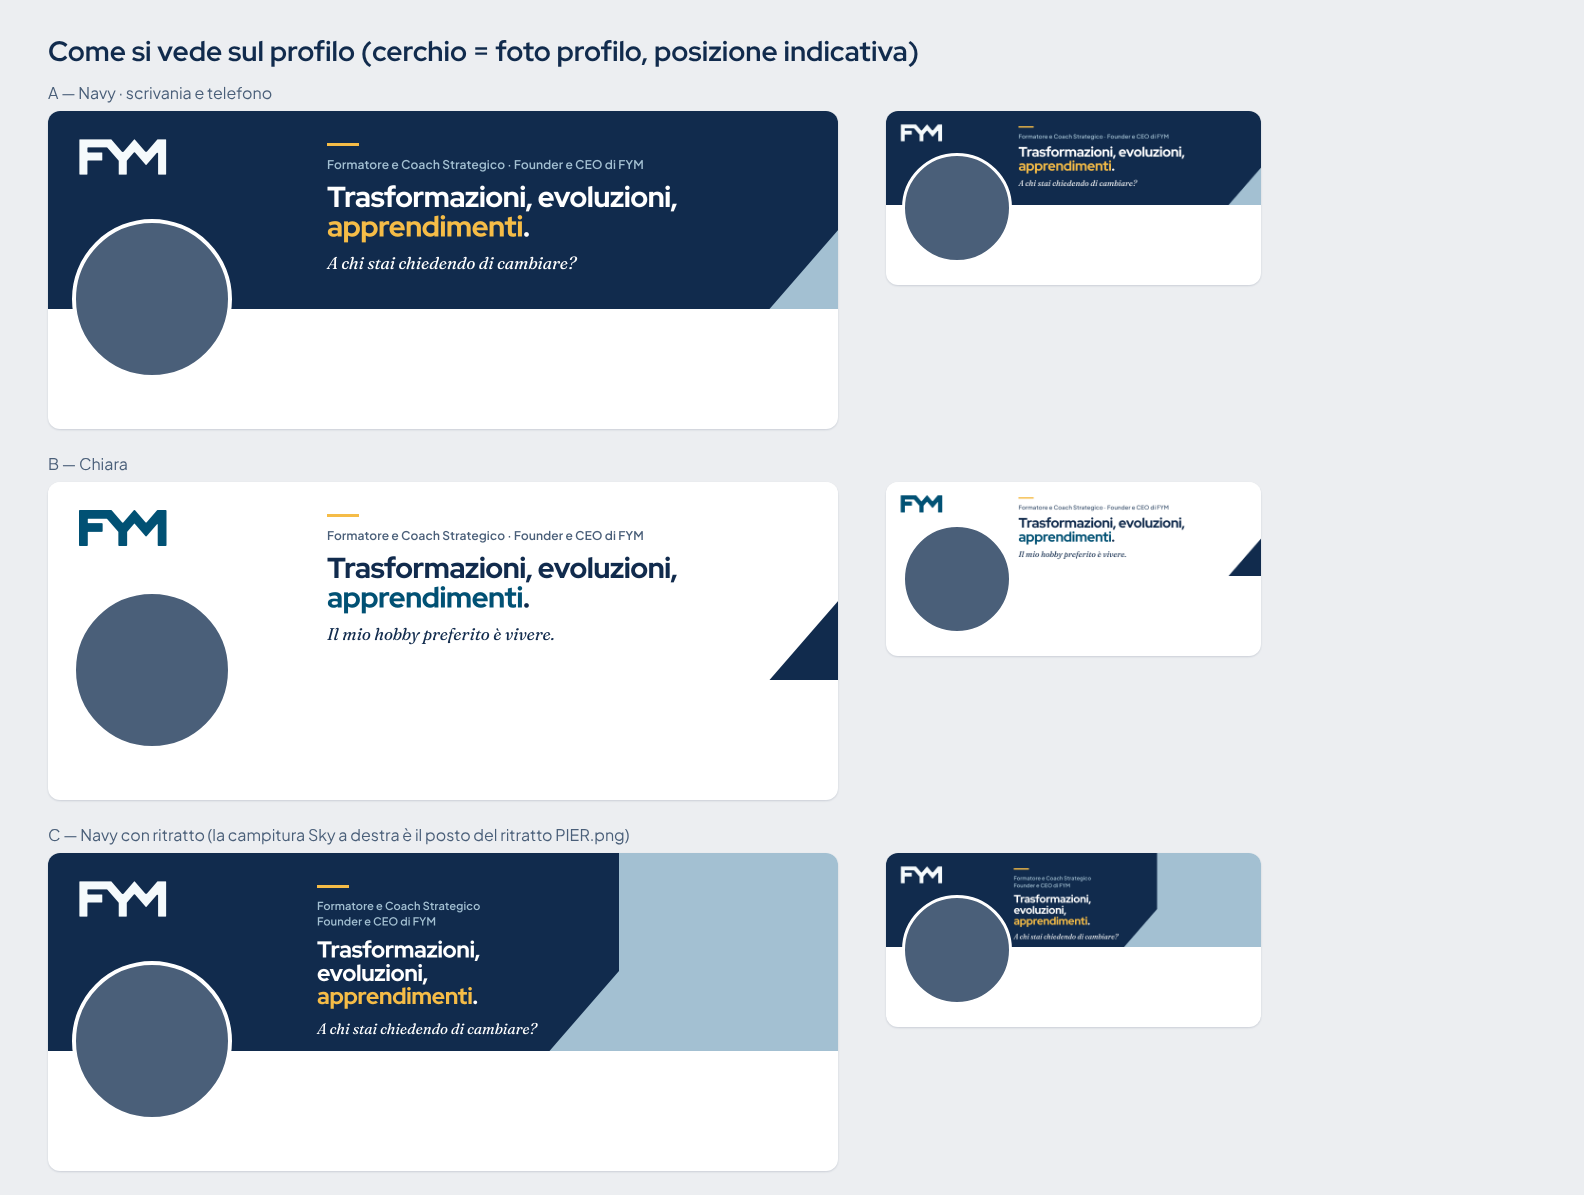
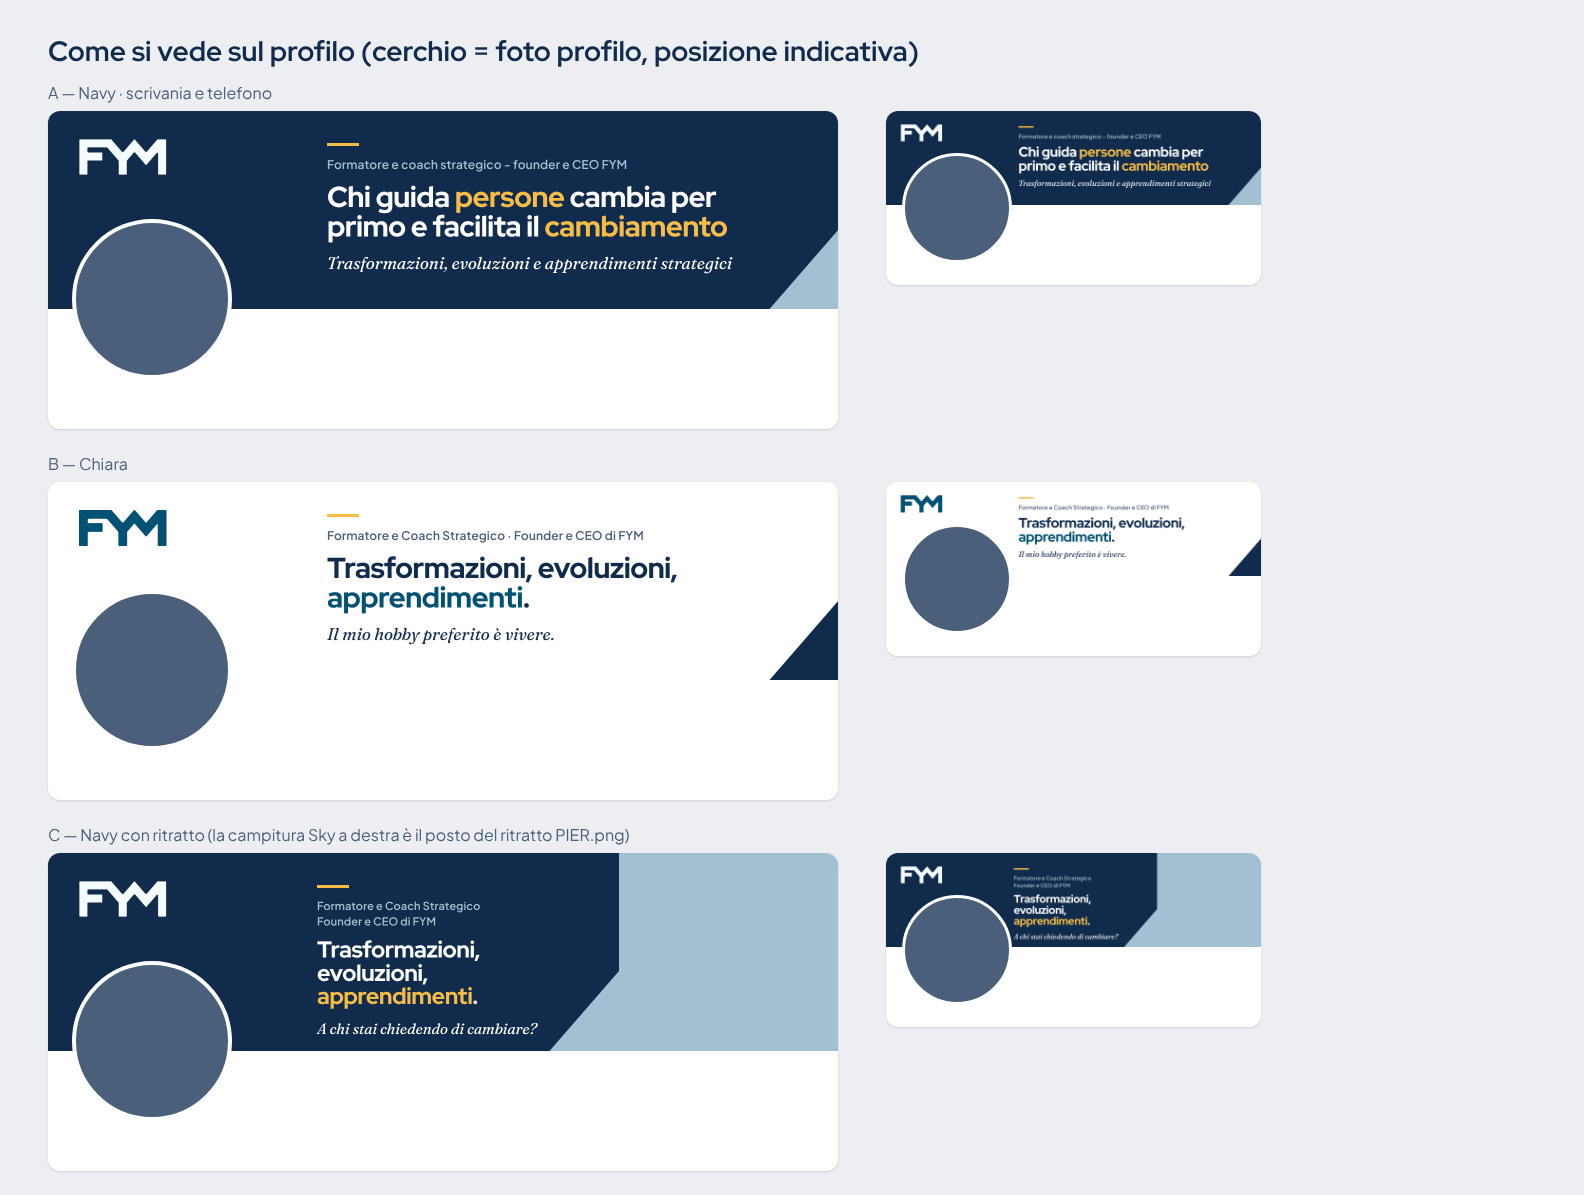
Copertina A: testi definitivi di Piercarlo
Claude-Session: https://claude.ai/code/session_01ExfnFPVvHZTvYh4X8r1qja

Changed region(s): [[0.1856, 0.1238, 0.464, 0.2477], [0.6187, 0.1238, 0.7734, 0.1548]]

diff --git a/linkedin/copertina-A-navy.html b/linkedin/copertina-A-navy.html
@@ -17,9 +17,9 @@ h1 em{font-style:normal;color:#f5bc47}
 <img class="logo" src="logo-soft.svg" alt="FYM">
 <div class="testo">
 <div class="tratt"></div>
-<p class="etichetta">Formatore e Coach Strategico · Founder e CEO di FYM</p>
-<h1>Trasformazioni, evoluzioni, <em>apprendimenti</em>.</h1>
-<p class="voce">Migliorarsi per migliorare.</p>
+<p class="etichetta">Formatore e coach strategico - founder e CEO FYM</p>
+<h1>Chi guida <em>persone</em> cambia per primo e facilita il <em>cambiamento</em></h1>
+<p class="voce">Trasformazioni, evoluzioni e apprendimenti strategici</p>
 </div>
 <div class="taglio"></div>
 </body></html>
